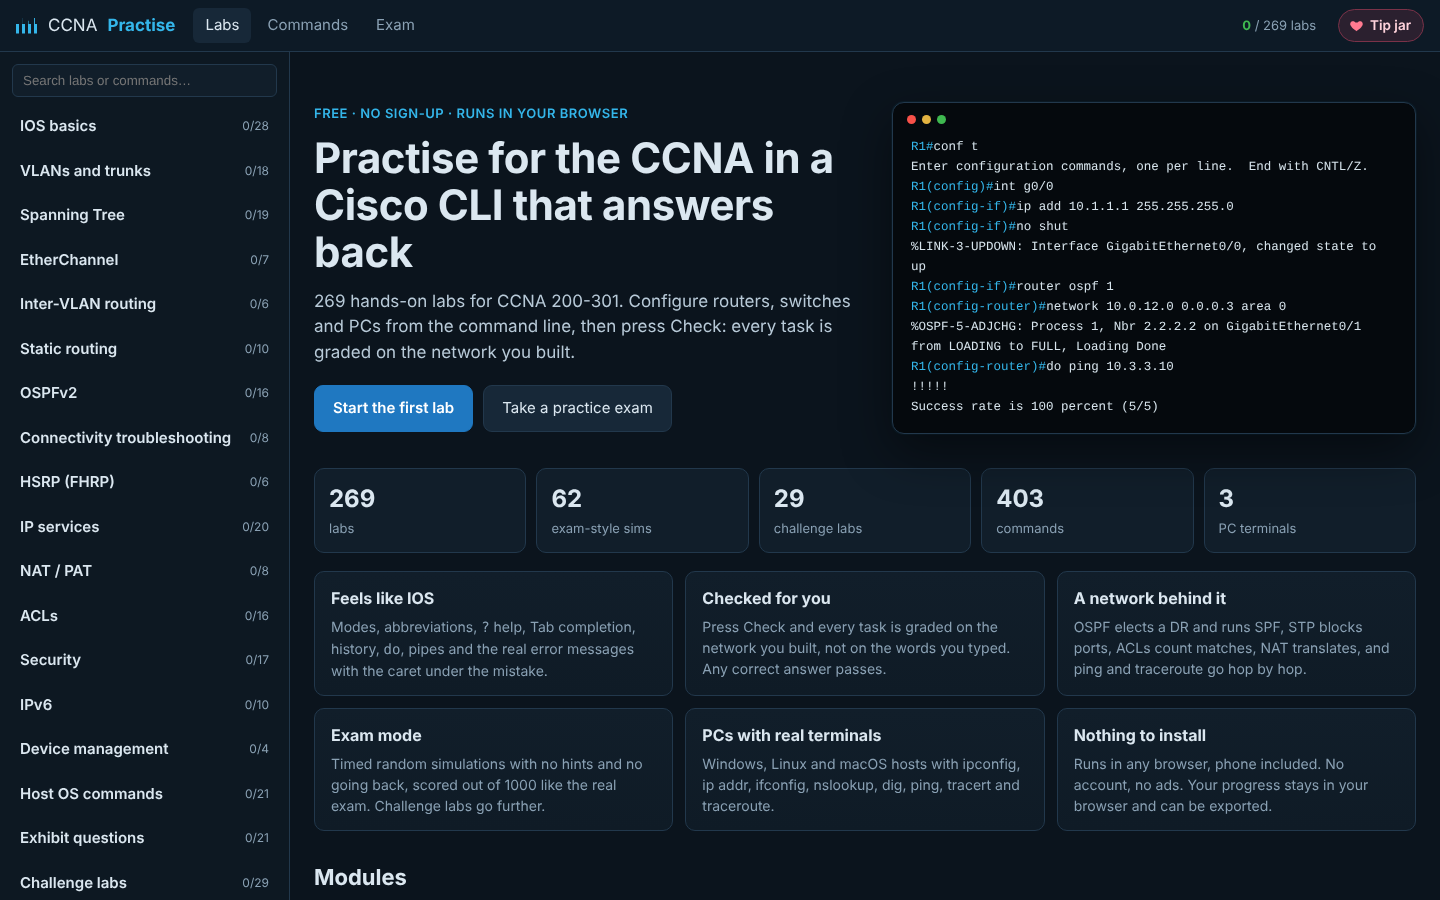
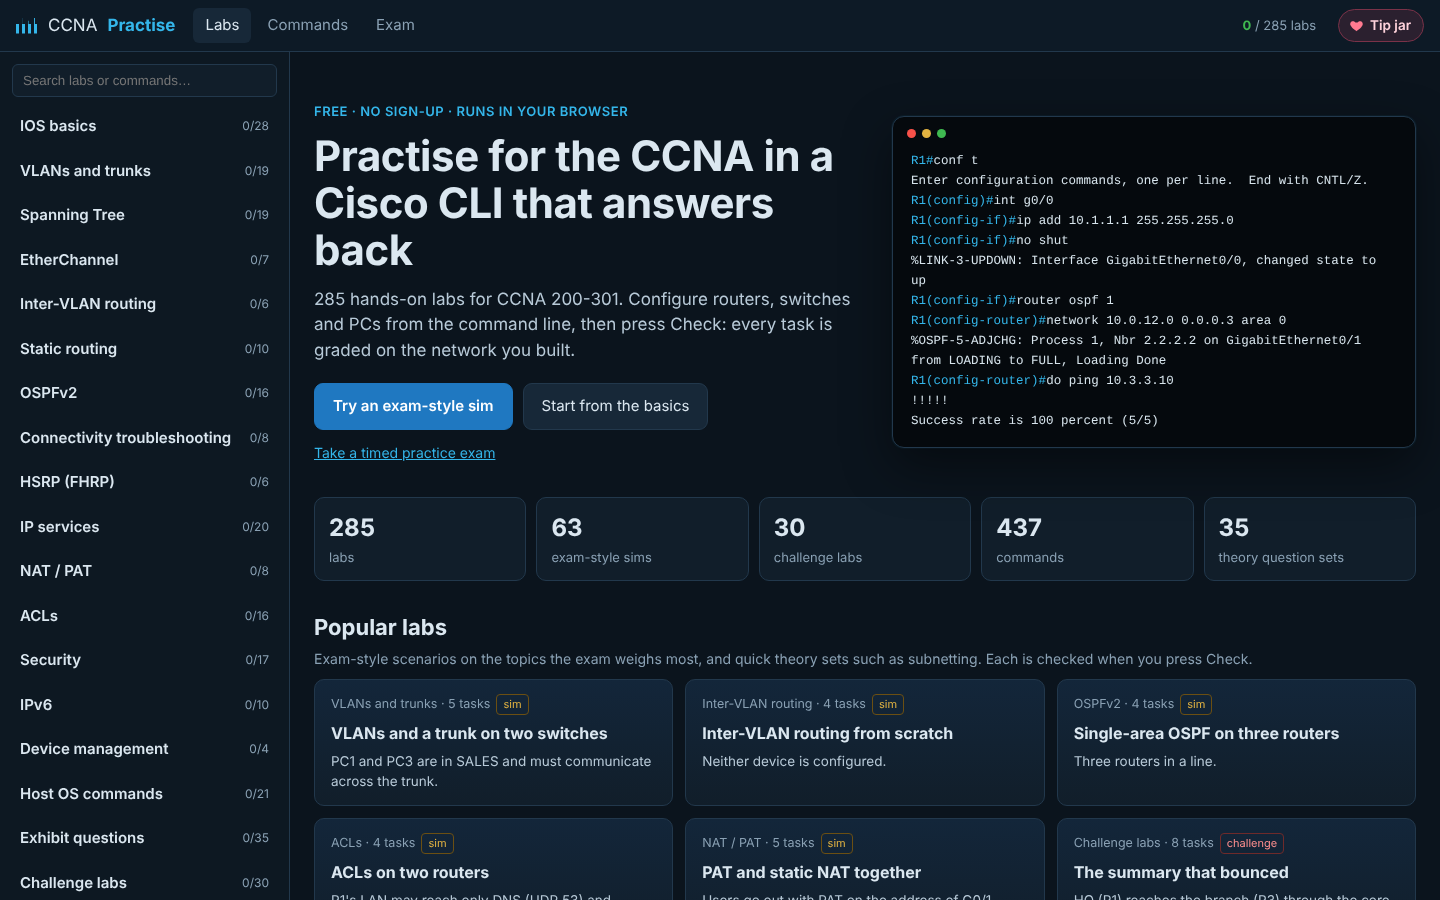
readme, meta tags, preview image and screenshots: 285 labs, 63 sims, 30 challenges, 35 theory sets
Claude-Session: https://claude.ai/code/session_01DKqSYpXcHfRcwFMhr8jyc9

diff --git a/index.html b/index.html
@@ -4,14 +4,14 @@
 <meta charset="utf-8">
 <meta name="viewport" content="width=device-width, initial-scale=1">
 <title>CCNA Practise: free CCNA 200-301 labs with a Cisco IOS CLI in your browser</title>
-<meta name="description" content="269 free hands-on CCNA 200-301 labs in the browser. Type Cisco IOS commands into routers, switches and PCs; every task is checked against the network you built. Exam mode, challenge labs, no sign-up.">
+<meta name="description" content="285 free hands-on CCNA 200-301 labs in the browser. Type Cisco IOS commands into routers, switches and PCs; every task is checked against the network you built. Exam mode, challenge labs, no sign-up.">
 <meta name="theme-color" content="#0b141d">
 <meta name="build" content="dev">
 <link rel="icon" href="favicon.svg" type="image/svg+xml">
 <meta property="og:type" content="website">
 <meta property="og:site_name" content="CCNA Practise">
 <meta property="og:title" content="CCNA Practise: free CCNA labs with a Cisco IOS CLI in your browser">
-<meta property="og:description" content="269 hands-on labs for CCNA 200-301: routers, switches and PCs you configure from the CLI, checked automatically. Exam mode and challenge labs. Free, no sign-up.">
+<meta property="og:description" content="285 hands-on labs for CCNA 200-301: routers, switches and PCs you configure from the CLI, checked automatically. Exam mode and challenge labs. Free, no sign-up.">
 <meta property="og:url" content="https://arpwatcher.github.io/CCNA-Practise-/">
 <meta property="og:image" content="https://arpwatcher.github.io/CCNA-Practise-/og.png">
 <meta property="og:image:width" content="1200">

diff --git a/README.md b/README.md
@@ -4,7 +4,7 @@
 
 **Free CCNA 200-301 labs with a Cisco IOS command line, right in your browser.**
 
-269 hands-on labs · 62 exam-style simulations · 29 challenge labs · 21 exhibit questions · exam mode · no sign-up, no install
+285 hands-on labs · 63 exam-style simulations · 30 challenge labs · 35 theory question sets · exam mode · no sign-up, no install
 
 ### [Open the labs →](https://arpwatcher.github.io/CCNA-Practise-/)
 
@@ -57,7 +57,7 @@ answer passes.
 | Module | Topics | Labs |
 | --- | --- | ---: |
 | IOS basics | modes, hostname, passwords, interfaces, saving | 28 |
-| VLANs and trunks | VLANs, access, voice, trunk, native, DTP | 18 |
+| VLANs and trunks | VLANs, access, voice, trunk, native, DTP, MAC learning | 19 |
 | Spanning Tree | Rapid PVST+, root bridge, PortFast, BPDU Guard | 19 |
 | EtherChannel | LACP, PAgP, static, L3 EtherChannel | 7 |
 | Inter-VLAN routing | router on a stick, SVIs, routed ports | 6 |
@@ -72,8 +72,8 @@ answer passes.
 | IPv6 | addressing, EUI-64, link-local, SLAAC, static routes | 10 |
 | Device management | IOS image, boot system, config-register, TFTP | 4 |
 | Host OS commands | Windows, Linux and macOS: ipconfig, ip addr, ifconfig, ARP, DNS | 21 |
-| Exhibit questions | subnetting (VLSM), IPv6 address types, syslog levels, 2.4 GHz channels, AP modes and WLC ports, threats and VPNs, cabling, network architectures, virtualization, DHCP, SD-Access, JSON, REST, Ansible, QoS | 21 |
-| Challenge labs | bigger topologies, several topics, faults and questions | 29 |
+| Exhibit questions | subnetting (VLSM and drills), IPv6 subnetting and address types, private ranges and APIPA, ports and TCP/UDP, DHCP, DNS, SNMP and NTP, syslog, FHRP, 802.1X, WPA/WPA2/WPA3, WLAN creation in the WLC GUI, AP modes, 2.4 GHz channels, threats, VPNs, WAN links, cloud, cabling, architectures, virtualization, SD-Access, REST, JSON, Ansible and other config tools, QoS | 35 |
+| Challenge labs | bigger topologies, several topics, faults and questions | 30 |
 | Legacy (not on 200-301) | RIP, EIGRP, VTP | 5 |
 
 Labs marked **sim** are short scenarios like the exam simulations. The
